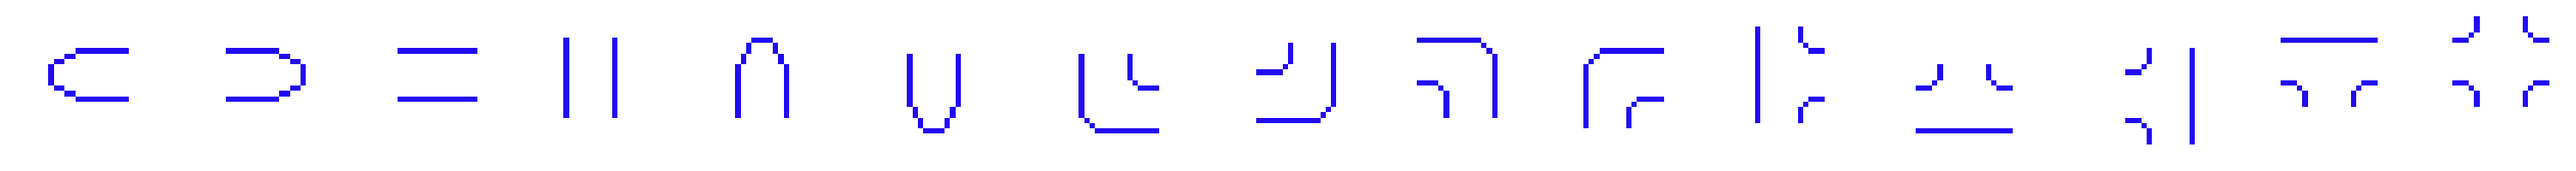
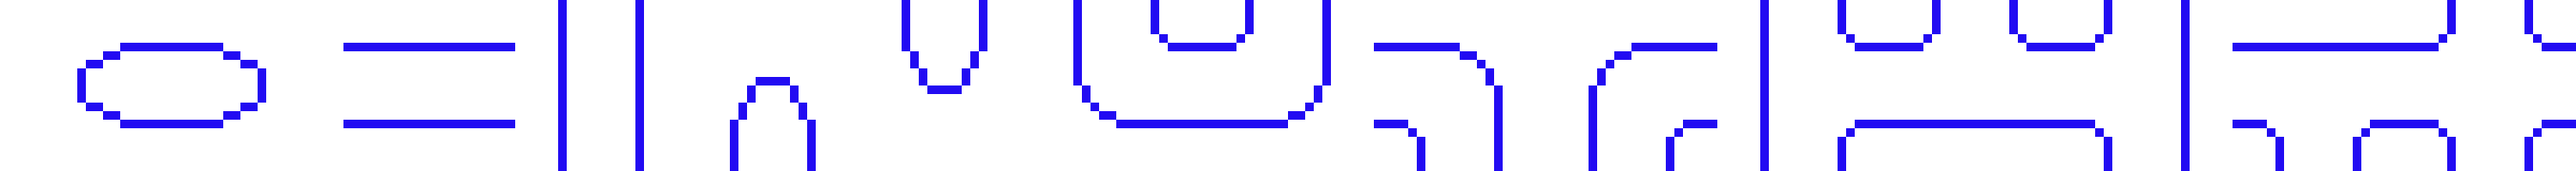
premier niveau (mat + affichage)

diff --git a/Commun/pac-man/affichage.c b/Commun/pac-man/affichage.c
@@ -9,7 +9,7 @@ void end_sdl(char ok,
     int l;
 
     if (!ok)
-    { 
+    {
         strncpy(msg_formated, msg, 250);
         l = strlen(msg_formated);
         strcpy(msg_formated + l, " : %s\n");
@@ -40,7 +40,6 @@ SDL_Window *initWindow(int x, int y, int w, int h)
 {
     SDL_Window *window = NULL;
 
-    
     window = SDL_CreateWindow(
         "Fenêtre",
         x, y,
@@ -50,8 +49,8 @@ SDL_Window *initWindow(int x, int y, int w, int h)
     if (window == NULL)
     {
         SDL_Log("Error : SDL window creation - %s\n",
-                SDL_GetError()); 
-        SDL_Quit();              
+                SDL_GetError());
+        SDL_Quit();
         exit(EXIT_FAILURE);
     }
 
@@ -67,8 +66,89 @@ SDL_Renderer *initRenderer(SDL_Window *window)
     {
         end_sdl(0, "ERROR RENDERER CREATION", window, renderer);
     }
-    SDL_SetRenderDrawColor(renderer, 255, 255, 255, 255);
+    SDL_SetRenderDrawColor(renderer, 65, 105, 225, 255);
     SDL_RenderClear(renderer);
     SDL_RenderPresent(renderer);
     return renderer;
+}
+
+SDL_Texture *load_texture_from_image(char *file_image_name, SDL_Window *window, SDL_Renderer *renderer)
+{
+    SDL_Surface *my_image = NULL;
+    SDL_Texture *my_texture = NULL;
+
+    my_image = IMG_Load(file_image_name);
+    if (my_image == NULL)
+        end_sdl(0, "Chargement de l'image impossible", window, renderer);
+
+    my_texture = SDL_CreateTextureFromSurface(renderer, my_image);
+    SDL_FreeSurface(my_image);
+    if (my_texture == NULL)
+        end_sdl(0, "Echec de la transformation de la surface en texture", window, renderer);
+
+    return my_texture;
+}
+
+SDL_Rect **createTabRect(SDL_Window *window, int w, int h)
+{
+    SDL_Rect ** tabRect = malloc(sizeof(SDL_Rect *)*w);
+    int fondW, fondH;
+    SDL_GetWindowSize(window, &fondW, &fondH);
+    int larg = fondW/w;
+    int haut= fondH/h;
+        for (int i = 0; i < w; i++)
+    {
+
+         SDL_Rect * ligneRect = malloc(sizeof(SDL_Rect )*w);
+         tabRect[i]=ligneRect;
+        for (int j = 0; j < h; j++)
+        {
+            SDL_Rect rect;
+            rect.x = i*larg;
+            rect.y= j* haut;
+            rect.w=larg;
+            rect.h=haut;
+            tabRect[i][j]=rect;
+        }
+    }
+    return tabRect;
+}
+
+void afficherPlateau(SDL_Rect **tabRect, int **plateau, int w, int h, SDL_Window *window, SDL_Renderer *renderer)
+{
+    SDL_RenderClear(renderer);
+    int fondW, fondH;
+    SDL_Texture *my_texture = load_texture_from_image("./source/Murs.png", window, renderer);
+    SDL_GetWindowSize(window, &fondW, &fondH);
+    for (int i = 0; i < w; i++)
+    {
+        for (int j = 0; j < h; j++)
+        {
+            if (plateau[j][i] != 0)
+            {
+                SDL_Rect
+                    source = {0},
+                    state = {0};
+
+                SDL_QueryTexture(my_texture,
+                                 NULL, NULL,
+                                 &source.w, &source.h);
+
+                int nb_images = 15;
+                int offset_x = source.w / nb_images,
+                    offset_y = source.h;
+
+                state.x = (plateau[j][i]-1) * offset_x;
+                state.y = 0;
+                state.w = offset_x;
+                state.h = offset_y;
+
+
+                SDL_RenderCopy(renderer, my_texture, // Préparation de l'affichage
+                               &state,
+                               &tabRect[i][j]);
+            }
+        }
+    }
+    SDL_RenderPresent(renderer);
 }

diff --git a/Commun/pac-man/plateau.c b/Commun/pac-man/plateau.c
@@ -1,28 +1,53 @@
 #include "plateau.h"
 
-int ** create_plateau(int taille)
+int **create_plateau(int width, int height)
 {
-    int ** plateau=malloc(sizeof(int*)*taille);
-    for (int i=0; i<taille; i++)
+    int **plateau = malloc(sizeof(int *) * width);
+    for (int i = 0; i < width; i++)
     {
-        int * ligne=malloc(sizeof(int)*taille);
-        for (int j=0; j<taille; j++)
+        int *ligne = malloc(sizeof(int) * height);
+        plateau[i]=ligne;
+        for (int j = 0; j < height; j++)
         {
-            plateau[i][j]=0;
+            plateau[i][j] = 0;
         }
     }
     return plateau;
 }
 
-int ** init_murs(int ** plateau, int taille)
+void printPlateau(int **mat, int w, int h)
 {
-    int nb_images=10;
-    int offset_x = source.w / nb_images;
-    for (int i=0; i<taille; i++)
+    for (int i = 0; i < w; i++)
     {
-        for(int j=0; j<taille; j++)
+        for (int j = 0; j < h; j++)
         {
-            state.x=plateau[i][j]*offset_x;
+            fprintf(stderr, "%d ", mat[i][j]);
         }
+        fprintf(stderr, "\n");
     }
 }
+
+int **loadPlateau(char *lvl, int* w, int* h)
+{
+    int ** plateau = NULL;
+    FILE *file = fopen(lvl, "r");
+    if (file)
+    {
+        fscanf(file, "%d %d\n",w, h);
+        
+        plateau = create_plateau(*w,*h);
+        for (int i = 0; i < *w; i++)
+        {
+            for (int j = 0; j < *h; j++)
+            {
+                fscanf(file, "%d ", &plateau[i][j]);
+            }
+            fscanf(file, "\n");
+        }
+        // printPlateau(plateau, *w, *h);
+    }
+    fclose(file);
+    return plateau;
+}
+
+

diff --git a/Commun/pac-man/main.c b/Commun/pac-man/main.c
@@ -2,3 +2,28 @@
 #include "perso.h"
 #include "fantome.h"
 #include "plateau.h"
+
+#define WINDOWL 700
+#define WINDOWW 700
+
+int main()
+{
+    int w;
+    int h;
+    int ** plateau=   loadPlateau("./source/lvl1.txt", &w, &h);
+    if (SDL_Init(SDL_INIT_VIDEO) != 0)
+    {
+        SDL_Log("Error : SDL initialisation - %s\n",
+                SDL_GetError());
+        exit(EXIT_FAILURE);
+    }
+
+    SDL_Window *window = initWindow(200, 100, WINDOWW, WINDOWL);
+    SDL_Renderer *renderer = initRenderer(window);
+    SDL_Rect** tabRect = createTabRect(window,w,h);
+    afficherPlateau(tabRect,plateau,w,h,window,renderer);
+
+    SDL_Delay(6000);
+    end_sdl(1, "Normal ending", window, renderer);
+    return 0;
+}

diff --git a/Commun/pac-man/affichage.h b/Commun/pac-man/affichage.h
@@ -9,3 +9,7 @@ void end_sdl(char ok,
 
 SDL_Window * initWindow(int x, int y, int w, int h);
 SDL_Renderer *initRenderer(SDL_Window *window);
+
+SDL_Rect **createTabRect(SDL_Window *window, int w, int h);
+
+void afficherPlateau(SDL_Rect **tabRect, int **plateau, int w, int h, SDL_Window *window, SDL_Renderer *renderer);

diff --git a/Commun/pac-man/plateau.h b/Commun/pac-man/plateau.h
@@ -1,0 +1,12 @@
+#ifndef BASE
+#define BASE
+#include <stdlib.h>
+#include <SDL2/SDL.h>
+#include <stdio.h>
+#include <SDL2/SDL_image.h>
+#include <stdbool.h>
+#include <stdlib.h>
+#endif
+
+
+int **loadPlateau(char *lvl, int*w, int* h);
